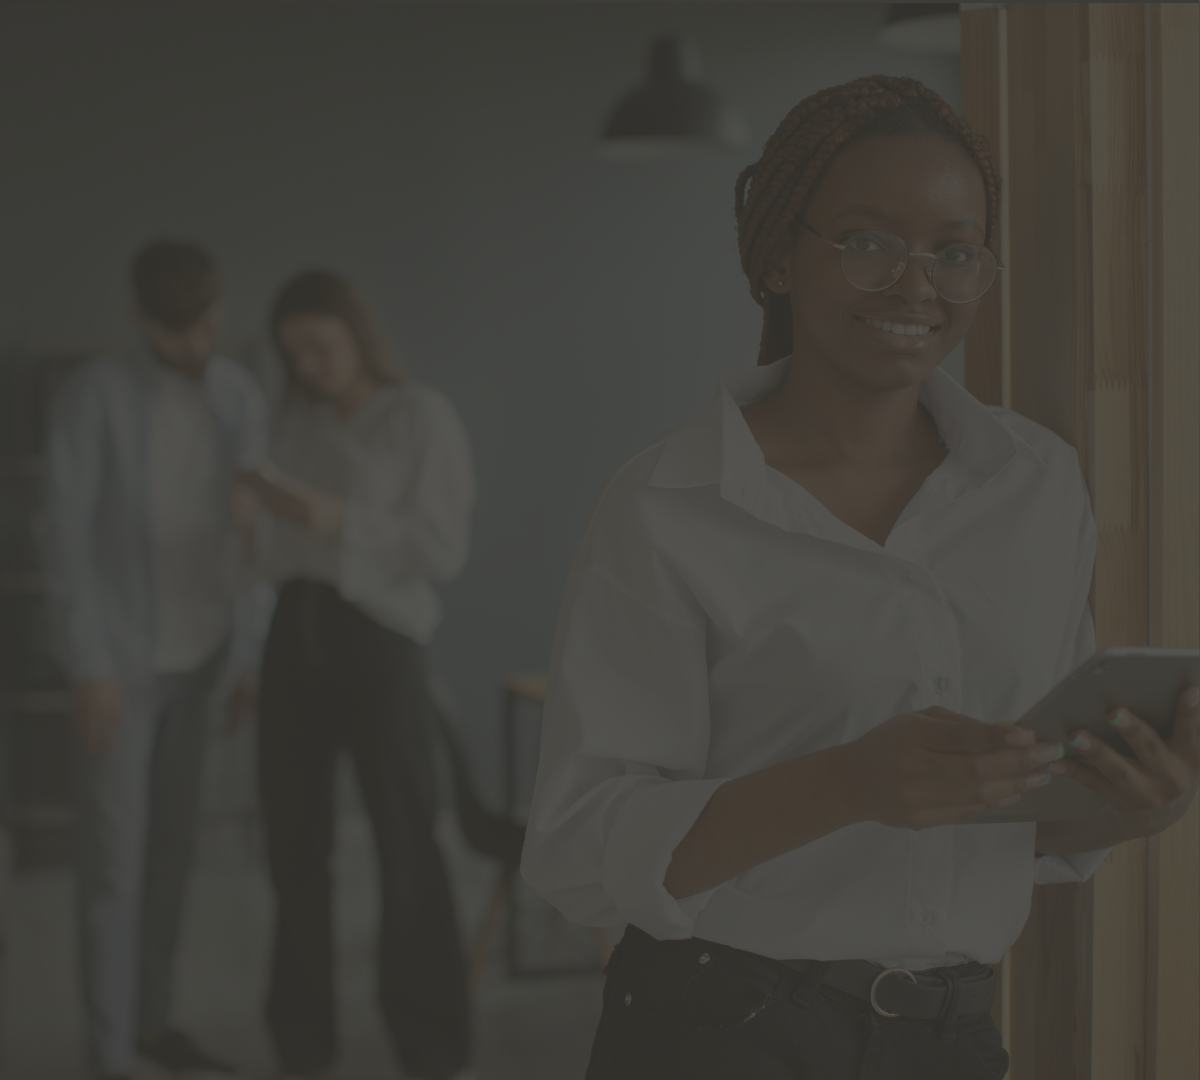
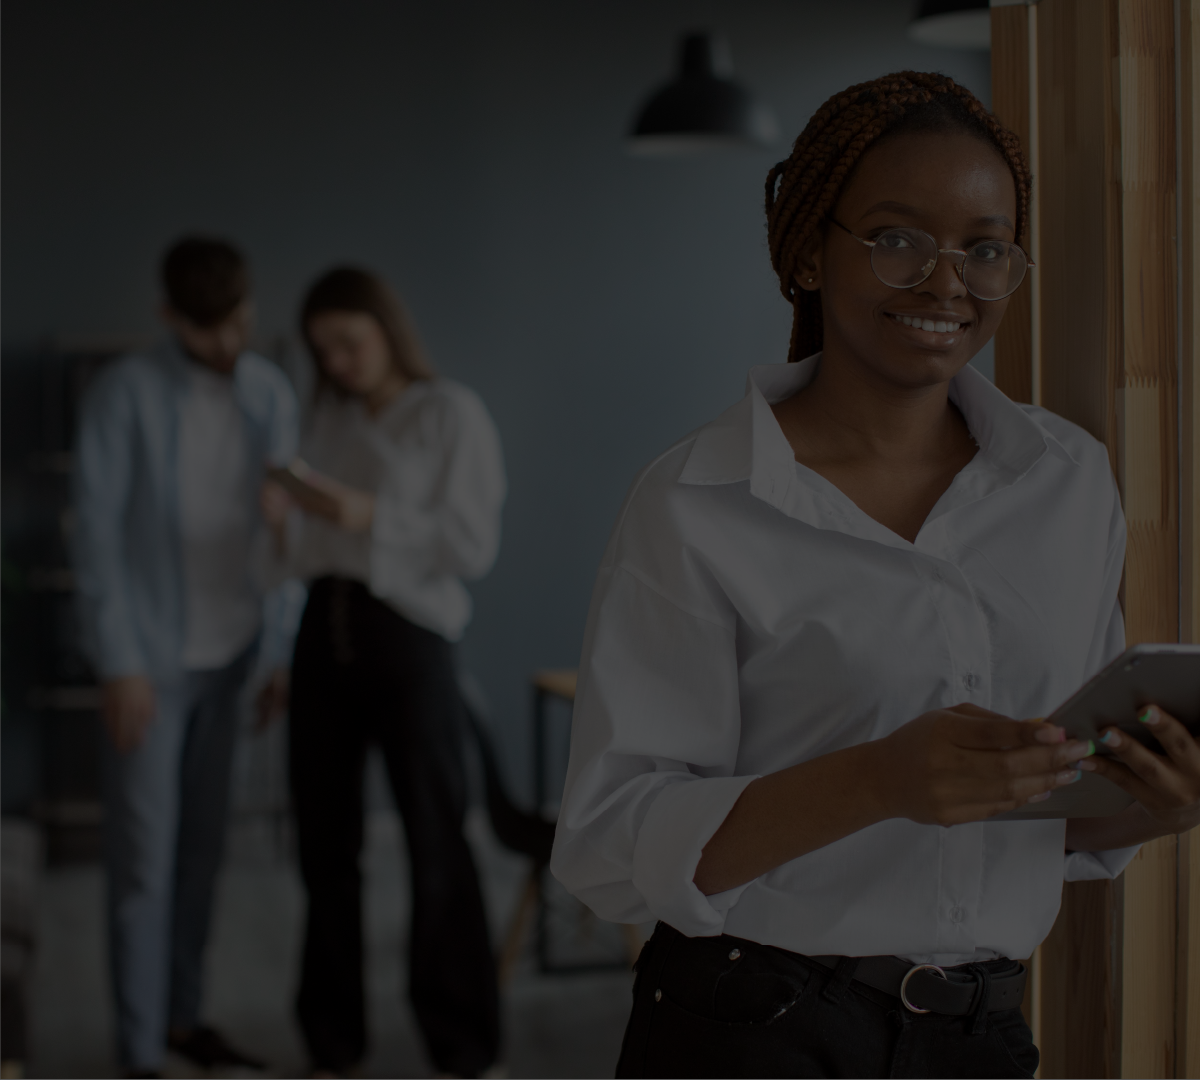
updated login and registration pages

diff --git a/frontend/src/pages/LoginPage.vue b/frontend/src/pages/LoginPage.vue
@@ -8,18 +8,17 @@
         <img
           src="/img/login-bg.png"
           alt="Merchandise background"
-          class="w-full h-full object-cover opacity-75"
+          class="w-full h-full object-cover"
         />
       </div>
       <div class="relative z-10 text-center">
-        <p class="text-xl font-semibold mb-2">Your AI tools are waiting.</p>
-        <div class="text-3xl font-bold tracking-tight mb-4 text-white">
+        <p class="text-l font-semibold mb-2">Great to see you again!</p>
+        <div class="text-5xl font-semibold tracking-tight mb-4 text-orange-500">
           WELCOME BACK
         </div>
         <p class="text-sm px-8 leading-relaxed">
-          Log in to continue exploring the full suite of Careershyne AI tools.
-          Your personalized dashboard is ready to provide the insights you need
-          to take the next step in your career.
+          Log in to explore opportunities and let our AI tools help you
+          <br>apply with speed and confidence.
         </p>
       </div>
     </div>

diff --git a/frontend/src/pages/RegisterPage.vue b/frontend/src/pages/RegisterPage.vue
@@ -8,16 +8,17 @@
         <img
           src="/img/login-bg.png"
           alt="Careershyne background"
-          class="w-full h-full object-cover opacity-75"
+          class="w-full h-full object-cover"
         />
       </div>
       <div class="relative z-10 text-center">
-        <p class="text-xl font-semibold mb-2">Welcome to Careershyne!</p>
-        <div class="text-3xl font-bold tracking-tight mb-4 text-white">
+        <p class="text-l font-semibold mb-2">Start your journey with us!</p>
+        <div class="text-5xl font-semibold tracking-tight mb-4 text-orange-500">
           CREATE ACCOUNT
         </div>
         <p class="text-sm px-8 leading-relaxed">
-          Sign up today to explore our full suite of AI tools. Your personalized dashboard will provide the insights you need to take the next step in your career.
+          Create your account today and unlock AI tools designed to make your
+          <br>applications smarter, faster, and more confident.
         </p>
       </div>
     </div>
